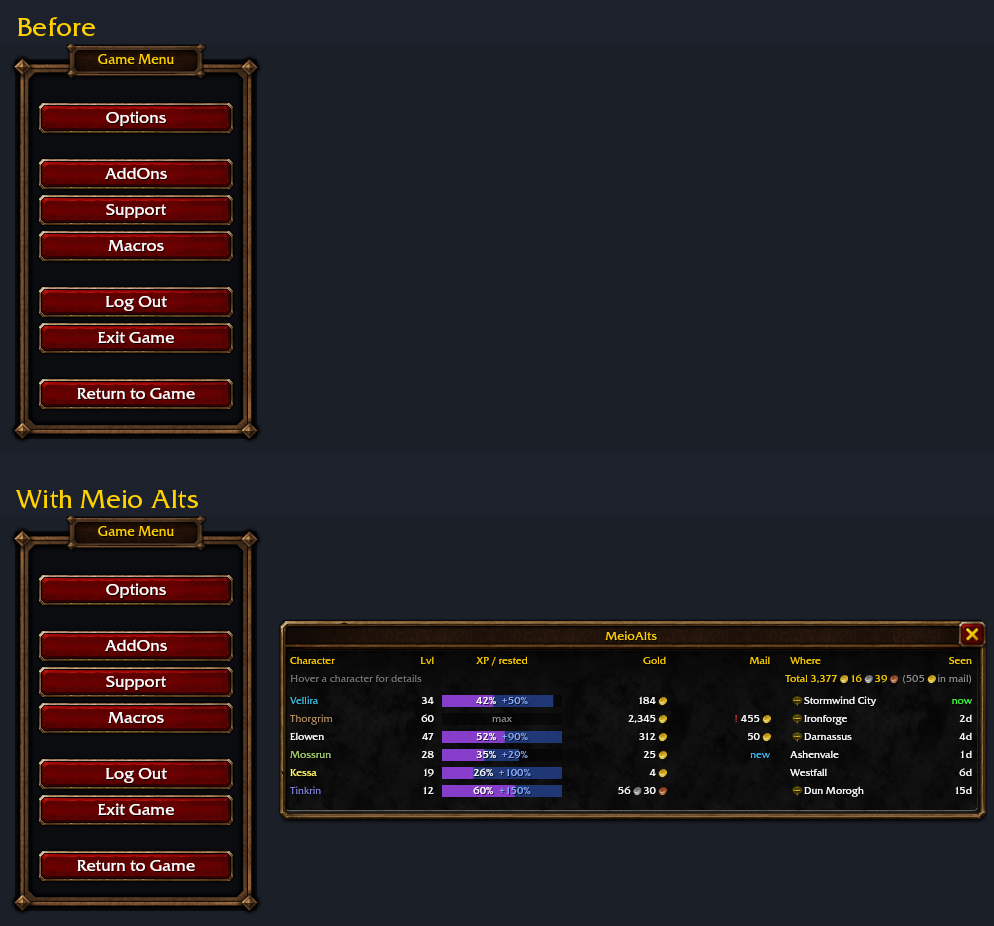
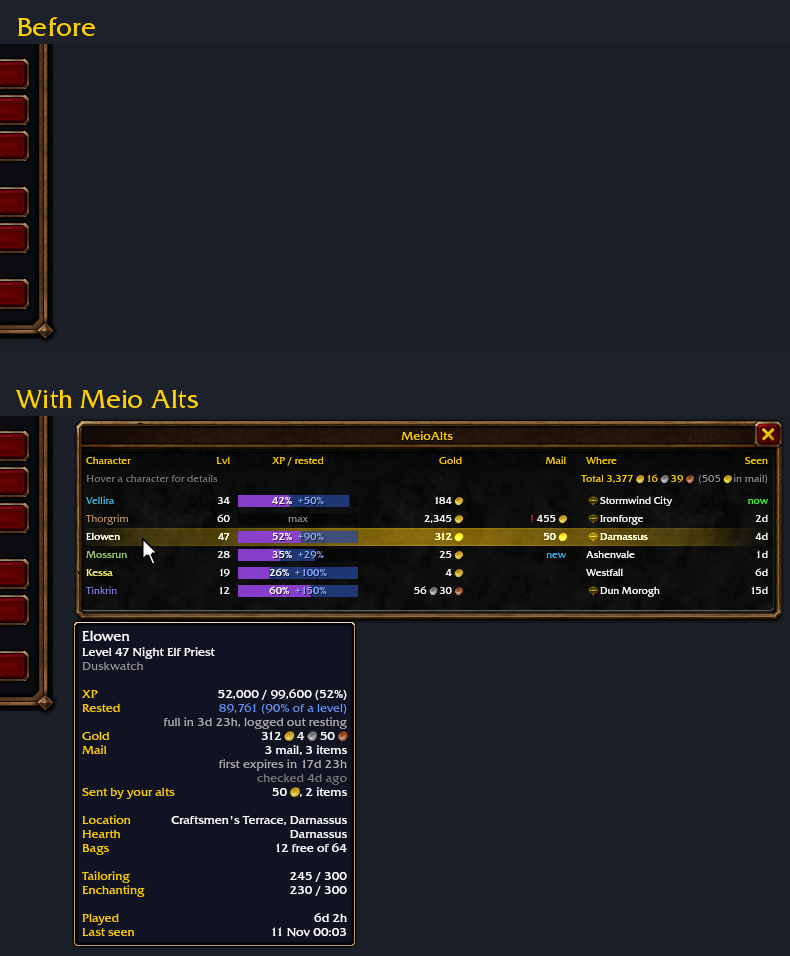
Listing images: tighter hero with a hovered character
Claude-Session: https://claude.ai/code/session_01FpmmnsN4d9ZuypuUQeHHmC

diff --git a/README.md b/README.md
@@ -5,8 +5,8 @@ All your characters in one list: gold, mail, XP and rested XP, and where they ar
 For WoW Forever.
 
 ![The Esc game menu: before, the menu alone; with Meio Alts, a list beside it of six
-characters with level, XP and rested XP bars, gold, mail, zone and when each was last
-played](docs/before-after.png)
+characters with level, XP and rested bars, gold, mail and zone, and the mouse on Elowen:
+rested XP full in 3d 23h, 3 mail, first expires in 17d 23h](docs/before-after.png)
 
 ## What it does
 
